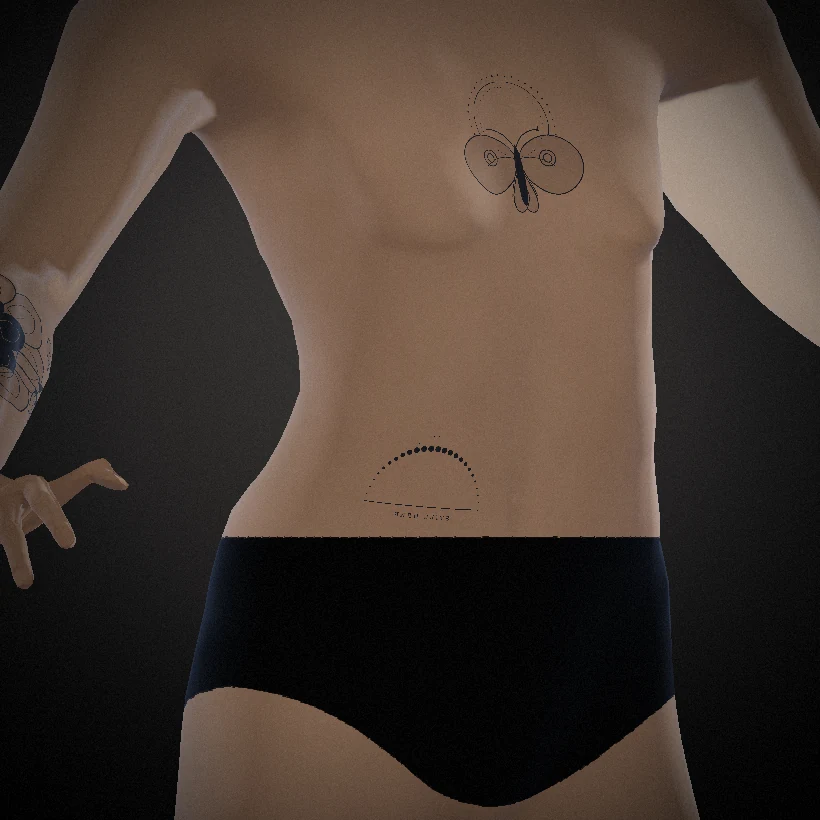
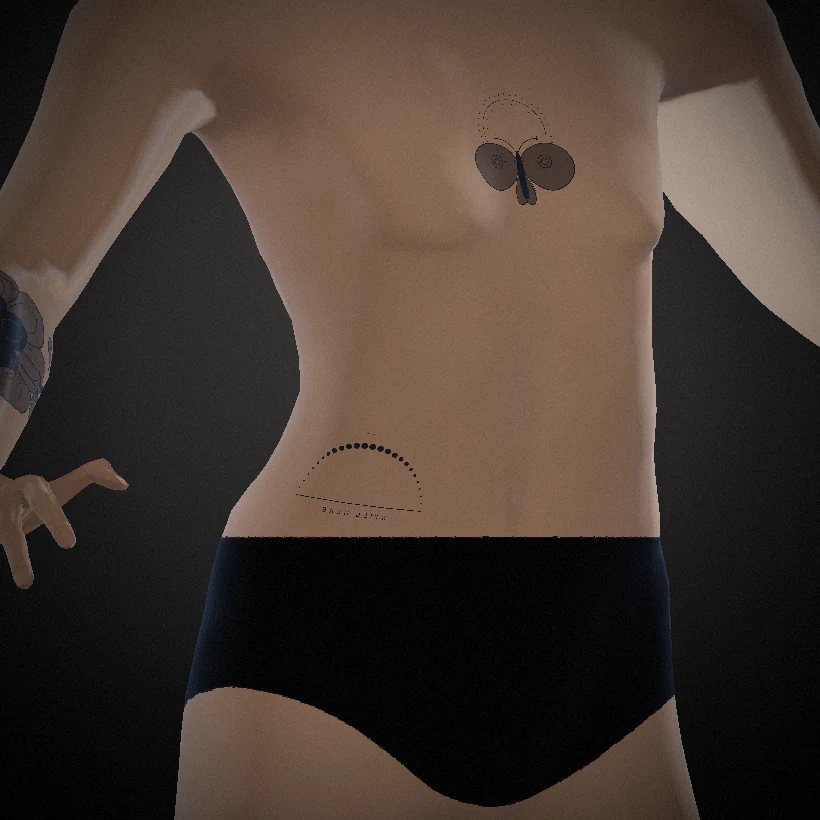
fix(ink): stop paper knockouts from erasing five designs in 3D
The catalogue is two-tone silkscreen art: near-black ink plus paper knockouts.
Ink density was 1 - luminance, which is right on paper and wrong on skin -- the
knockout became bare skin, so lunar-moth, heart-anatomy, rose-noir,
dragon-serpent and orchid-line rendered at ~15 % strength and read as ghosts
while their gallery cards looked fine.

Paper now maps to a 0.40 ink wash (PAPER_TONE_INK). Relative contrast, polarity
and the alpha silhouette are untouched: black stays black at 0.97, transparent
stays skin, and every one of the 28 designs now has a visible footprint
(mean density 0.49-0.92, was 0.22 for lunar-moth). The offline renderer reads
the constant out of lib/atlas.ts so the two implementations cannot drift.

Also makes the editorial studio renders truthful: STUDIO_BACK now uses a design
that fills its square at the upper-back capacity, and placement() prints every
clamp (ink-flow 15.0 -> 14.4 cm, lunar-moth 26.0 -> 17.8 cm) instead of silently
resizing. Eight webp files regenerated.

tests/ink-density.test.ts pins transparent/black/paper/contrast plus a
per-design visibility sweep over all 28 PNGs (70 tests green).

diff --git a/lib/atlas.ts b/lib/atlas.ts
@@ -30,6 +30,42 @@ export function atlasUvFor(tile: number, qx: number, qy: number): [number, numbe
   return [(col + qx) / ATLAS_GRID, (row + (1 - qy)) / ATLAS_GRID];
 }
 
+
+/**
+ * Ink density of one artwork pixel.
+ *
+ * The catalogue is a two-tone silkscreen style drawn over the page surface: the
+ * drawings use near-black ink (`#0b0b0b`) *and* paper knockouts — white shapes that
+ * are meant to read as bare paper. On a dark surface that composition is the design;
+ * transcribed straight onto skin with `density = 1 − luminance` the knockouts become
+ * bare skin, which is anatomically right but erases 5 of the 28 motifs (mean opaque
+ * luminance 0.61–0.78: `lunar-moth`, `heart-anatomy`, `rose-noir`, `dragon-serpent`,
+ * `orchid-line` all but disappeared in the 3D render).
+ *
+ * So the knockout is mapped to a light ink wash instead of nothing: the tonal
+ * structure of the artwork survives (relative contrast is untouched, polarity is
+ * untouched, nothing is drawn outside the alpha silhouette) while every motif stays
+ * legible at catalogue sizes. Pure black stays pure black, transparent stays skin.
+ *
+ * The real fix is art direction, not shading: designs whose form depends on paper
+ * knockouts need stencil line work before they are offered as blackwork. Tracked in
+ * `docs/art-direction.md`; the gallery artwork is deliberately left untouched so what
+ * the catalogue shows is exactly what the artwork is.
+ */
+export const PAPER_TONE_INK = 0.4;
+
+export function inkDensityFromPixel(r: number, g: number, b: number, a: number): number {
+  if (a <= 0) return 0;
+  // Composite the artwork onto its own paper tone before measuring luminance:
+  // reading raw channels lets a transparent margin carry colour, which turns clean
+  // line work into speckle once it is sampled at skin scale.
+  const cr = r * a + 255 * (1 - a);
+  const cg = g * a + 255 * (1 - a);
+  const cb = b * a + 255 * (1 - a);
+  const lum = (0.2126 * cr + 0.7152 * cg + 0.0722 * cb) / 255;
+  return Math.max(0, Math.min(1, a * (1 - (1 - PAPER_TONE_INK) * lum)));
+}
+
 const cache = new Map<string, HTMLImageElement>();
 
 export function loadInkImage(url: string): Promise<HTMLImageElement> {
@@ -106,24 +142,7 @@ export function buildInkAtlas(
     const data = tctx.getImageData(0, 0, ATLAS_TILE, ATLAS_TILE);
     const px = data.data;
     for (let i = 0; i < px.length; i += 4) {
-      const a = px[i + 3]! / 255;
-      if (a <= 0) {
-        px[i] = 0;
-        px[i + 1] = 0;
-        px[i + 2] = 0;
-        px[i + 3] = 255;
-        continue;
-      }
-      // Composite the (premultiplied) artwork onto white paper before measuring
-      // luminance. Reading the raw channels lets the transparent margin of a design
-      // carry colour, which turns clean line work into speckle once it is sampled at
-      // skin scale.
-      const r = px[i]! * a + 255 * (1 - a);
-      const g = px[i + 1]! * a + 255 * (1 - a);
-      const b = px[i + 2]! * a + 255 * (1 - a);
-      const lum = (0.2126 * r + 0.7152 * g + 0.0722 * b) / 255;
-      // dark ink -> high density, paper -> 0
-      const density = Math.max(0, Math.min(1, 1 - lum));
+      const density = inkDensityFromPixel(px[i]!, px[i + 1]!, px[i + 2]!, px[i + 3]! / 255);
       const v = Math.round(density * 255);
       px[i] = v;
       px[i + 1] = v;
@@ -149,9 +168,7 @@ export async function designDensityUrl(url: string, size = 512): Promise<string>
   const data = ctx.getImageData(0, 0, size, size);
   const px = data.data;
   for (let i = 0; i < px.length; i += 4) {
-    const a = px[i + 3]! / 255;
-    const lum = (0.2126 * px[i]! + 0.7152 * px[i + 1]! + 0.0722 * px[i + 2]!) / 255;
-    const density = Math.max(0, Math.min(1, (1 - lum) * a));
+    const density = inkDensityFromPixel(px[i]!, px[i + 1]!, px[i + 2]!, px[i + 3]! / 255);
     px[i] = 20;
     px[i + 1] = 22;
     px[i + 2] = 26;

diff --git a/tests/ink-density.test.ts b/tests/ink-density.test.ts
@@ -1,0 +1,90 @@
+import { describe, expect, it } from 'vitest';
+import fs from 'node:fs';
+import path from 'node:path';
+import sharp from 'sharp';
+import { inkDensityFromPixel, PAPER_TONE_INK } from '@/lib/atlas';
+import { TATTOO_LIBRARY } from '@/lib/tattoos';
+
+/**
+ * Guards the rule that turns artwork into ink density.
+ *
+ * It exists because of a real regression: a straight `1 − luminance` reading of the
+ * catalogue's paper knockouts rendered five designs (lunar-moth, heart-anatomy,
+ * rose-noir, dragon-serpent, orchid-line) at ~15 % strength, i.e. practically
+ * invisible on skin, while the gallery card looked fine. Both the WebGL atlas
+ * (`lib/atlas.ts`) and the offline editorial renderer
+ * (`tools/assets/render_editorial.py`) implement this rule, so it is pinned here.
+ */
+
+const TATTOOS = path.join(process.cwd(), 'public', 'tattoos');
+
+async function footprintStats(file: string) {
+  const { data, info } = await sharp(path.join(TATTOOS, `${file}.png`))
+    .ensureAlpha()
+    .raw()
+    .toBuffer({ resolveWithObject: true });
+  const densities: number[] = [];
+  for (let i = 0; i < data.length; i += 4) {
+    const d = inkDensityFromPixel(data[i]!, data[i + 1]!, data[i + 2]!, data[i + 3]! / 255);
+    if (data[i + 3]! / 255 > 0.5) densities.push(d);
+  }
+  const mean = densities.reduce((a, b) => a + b, 0) / densities.length;
+  const sorted = [...densities].sort((a, b) => a - b);
+  return { mean, p10: sorted[Math.floor(sorted.length * 0.1)]!, count: densities.length, width: info.width };
+}
+
+describe('ink density rule', () => {
+  it('leaves transparent pixels as skin', () => {
+    expect(inkDensityFromPixel(11, 11, 11, 0)).toBe(0);
+    expect(inkDensityFromPixel(255, 255, 255, 0)).toBe(0);
+  });
+
+  it('keeps catalogue black fully black', () => {
+    // #0b0b0b is the pinned ink colour of the vector sources
+    expect(inkDensityFromPixel(11, 11, 11, 1)).toBeGreaterThan(0.96);
+  });
+
+  it('maps paper knockouts to a light wash rather than bare skin', () => {
+    const paper = inkDensityFromPixel(255, 255, 255, 1);
+    expect(paper).toBeCloseTo(PAPER_TONE_INK, 6);
+    expect(paper).toBeGreaterThan(0.3);
+    expect(paper).toBeLessThan(0.5);
+  });
+
+  it('keeps relative contrast: darker artwork is always more ink', () => {
+    const tones = [0, 64, 128, 192, 255];
+    const densities = tones.map((t) => inkDensityFromPixel(t, t, t, 1));
+    for (let i = 1; i < densities.length; i += 1) {
+      expect(densities[i]!).toBeLessThan(densities[i - 1]!);
+    }
+  });
+
+  it('does not let a transparent margin carry colour', () => {
+    // same artwork, different hidden RGB under a 25 % alpha edge -> same density
+    expect(inkDensityFromPixel(11, 11, 11, 0.25)).toBeCloseTo(inkDensityFromPixel(90, 200, 30, 0.25), 1);
+  });
+
+  it('renders every catalogue design as visible ink', async () => {
+    const weak: string[] = [];
+    for (const design of TATTOO_LIBRARY) {
+      const stats = await footprintStats(design.id);
+      expect(stats.width).toBe(1024);
+      if (stats.mean < 0.45) weak.push(`${design.id} (${stats.mean.toFixed(2)})`);
+    }
+    expect(weak).toEqual([]);
+  });
+
+  it('renders the five knockout-dominated designs as readable, not as ghosts', async () => {
+    for (const id of ['lunar-moth', 'heart-anatomy', 'rose-noir', 'dragon-serpent', 'orchid-line']) {
+      const stats = await footprintStats(id);
+      expect(stats.mean, id).toBeGreaterThanOrEqual(0.45);
+    }
+  });
+
+  it('has a matching density rule in the offline renderer', () => {
+    const py = fs.readFileSync(path.join(process.cwd(), 'tools/assets/render_editorial.py'), 'utf8');
+    expect(py).toContain('PAPER_TONE_INK');
+    // the python module parses the TS constant, so the numbers cannot drift silently
+    expect(py).toContain('lib", "atlas.ts"');
+  });
+});

diff --git a/tools/assets/render_editorial.py b/tools/assets/render_editorial.py
@@ -13,6 +13,7 @@ from __future__ import annotations
 import json
 import math
 import os
+import re
 import sys
 
 import numpy as np
@@ -36,7 +37,7 @@ def load_slot(kind, region):
     return best, REGION_INDEX[region]
 
 
-def placement(slot, size_m, offset=(0.0, 0.0), rot=0.0):
+def placement(slot, size_m, offset=(0.0, 0.0), rot=0.0, label=""):
     u0, v0, u1, v1 = slot["uvBox"]
     bw, bh = u1 - u0, v1 - v0
     kx, ky = slot["uvPerMeterX"], slot["uvPerMeterY"]
@@ -60,6 +61,8 @@ def placement(slot, size_m, offset=(0.0, 0.0), rot=0.0):
     if fit < 1:
         shrink = min(shrink, fit)
         hx, hy = hx * fit, hy * fit
+    if shrink < 0.995:
+        print(f"  ! {label or slot.get('region', '?')}: {size_m * 100:.1f} cm clamped to {size_m * shrink * 100:.1f} cm (zone capacity)")
     hx, hy = hx * shrink, hy * shrink
     ex, ey = hx * c + hy * s, hx * s + hy * c
     # mirror lib/placement.ts: centre on the island interior, not the box centre
@@ -71,14 +74,28 @@ def placement(slot, size_m, offset=(0.0, 0.0), rot=0.0):
     return (cx, cy, hx, hy)
 
 
+def _paper_tone():
+    """Read PAPER_TONE_INK from lib/atlas.ts so the offline render cannot drift
+    from what the browser paints. Raises if the constant is renamed."""
+    src = open(os.path.join(ROOT, "lib", "atlas.ts")).read()
+    m = re.search(r"PAPER_TONE_INK\s*=\s*([0-9.]+)", src)
+    if not m:
+        raise SystemExit("PAPER_TONE_INK missing from lib/atlas.ts")
+    return float(m.group(1))
+
+
+PAPER_TONE_INK = _paper_tone()
+
+
 def load_density(path):
     img = Image.open(path).convert("RGBA")
     a = np.asarray(img).astype(np.float32) / 255.0
     alpha = a[..., 3:4]
-    # composite onto white paper, then invert: paper = no ink (mirrors lib/atlas.ts)
+    # composite the artwork onto its own paper tone, then invert: paper reads as a
+    # light ink wash, ink reads as ink (mirrors inkDensityFromPixel in lib/atlas.ts)
     rgb = a[..., :3] * alpha + (1.0 - alpha)
     lum = 0.2126 * rgb[..., 0] + 0.7152 * rgb[..., 1] + 0.0722 * rgb[..., 2]
-    return np.clip(1.0 - lum, 0, 1)
+    return np.clip(alpha[..., 0] * (1.0 - (1.0 - PAPER_TONE_INK) * lum), 0, 1)
 
 
 def sample(img, u, v):
@@ -92,6 +109,9 @@ def render(kind, tattoos, W=1200, H=1560, rot=180, elev=0, span=2.02, cy=0.95,
            bg_top="#141416", bg_bot="#08080a", fov_shift=0.0):
     d = np.load(os.path.join(HERE, f"{kind}.npz"))
     pos, nrm, uv, tris = d["pos"], d["nrm"], d["uv"], d["tris"]
+    # Two UV sets, exactly like the shader: skin and cloth sample TEXCOORD_0, ink
+    # samples TEXCOORD_1 (the per-zone chart atlas built by ink_uv.py).
+    uv_ink = d["uv1"] if "uv1" in d.files else uv
     skin = np.asarray(Image.open(os.path.join(ROOT, "public", "textures", f"skin-{kind}.webp")).convert("RGB")).astype(np.float32) / 255
     cloth_path = os.path.join(ROOT, "public", "textures", f"cloth-{kind}.webp")
     cloth = np.asarray(Image.open(cloth_path).convert("L")).astype(np.float32) / 255 if os.path.exists(cloth_path) else None
@@ -120,7 +140,7 @@ def render(kind, tattoos, W=1200, H=1560, rot=180, elev=0, span=2.02, cy=0.95,
     inks = []
     for t in tattoos:
         slot, rid = load_slot(kind, t["region"])
-        cx, cyy, hx, hy = placement(slot, t["size"], t.get("offset", (0, 0)), t.get("rot", 0))
+        cx, cyy, hx, hy = placement(slot, t["size"], t.get("offset", (0, 0)), t.get("rot", 0), label=t["id"])
         density = load_density(os.path.join(ROOT, "public", "tattoos", f"{t['id']}.png"))
         inks.append({"cx": cx, "cy": cyy, "hx": hx, "hy": hy, "rot": t.get("rot", 0), "op": t.get("opacity", 0.94), "density": density})
 
@@ -218,6 +238,10 @@ def render(kind, tattoos, W=1200, H=1560, rot=180, elev=0, span=2.02, cy=0.95,
             continue
         u0_, u1_, u2_ = w0[upd], w1[upd], w2[upd]
         uvs = u0_[:, None] * uv[a] + u1_[:, None] * uv[b] + u2_[:, None] * uv[c]
+        if uv_ink is uv:
+            uvs_ink = uvs
+        else:
+            uvs_ink = u0_[:, None] * uv_ink[a] + u1_[:, None] * uv_ink[b] + u2_[:, None] * uv_ink[c]
         n = u0_[:, None] * N[a] + u1_[:, None] * N[b] + u2_[:, None] * N[c]
         n /= np.linalg.norm(n, axis=1, keepdims=True) + 1e-9
         base = sample(skin, uvs[:, 0], uvs[:, 1])
@@ -233,8 +257,8 @@ def render(kind, tattoos, W=1200, H=1560, rot=180, elev=0, span=2.02, cy=0.95,
         for ink in inks:
             th = math.radians(ink["rot"])
             cc, ss = math.cos(th), math.sin(th)
-            px = uvs[:, 0] - ink["cx"]
-            py = uvs[:, 1] - ink["cy"]
+            px = uvs_ink[:, 0] - ink["cx"]
+            py = uvs_ink[:, 1] - ink["cy"]
             qx = (cc * px + ss * py) / (2 * ink["hx"]) + 0.5
             qy = (-ss * px + cc * py) / (2 * ink["hy"]) + 0.5
             inside = (qx >= 0) & (qx <= 1) & (qy >= 0) & (qy <= 1)
@@ -330,8 +354,10 @@ HERO_IRIS = [
     {"id": "sacred-grid", "region": "upper-back", "size": 0.3, "offset": (0, 0)},
 ]
 STUDIO_BACK = [
-    {"id": "dragon-serpent", "region": "upper-back", "size": 0.34, "offset": (0, 0.12)},
-    {"id": "ink-flow", "region": "lower-back", "size": 0.2, "offset": (-0.3, -0.1)},
+    # sizes are the zone capacities for the male body (regions.json), not the catalogue
+    # defaults: the editorial render must show what the studio can actually place
+    {"id": "kiku-wave", "region": "upper-back", "size": 0.19, "offset": (0, 0.06)},
+    {"id": "ink-flow", "region": "lower-back", "size": 0.15, "offset": (0, 0.02)},
     {"id": "hannya-vigil", "region": "arm-l", "size": 0.17, "offset": (0, 0.05)},
 ]
 
